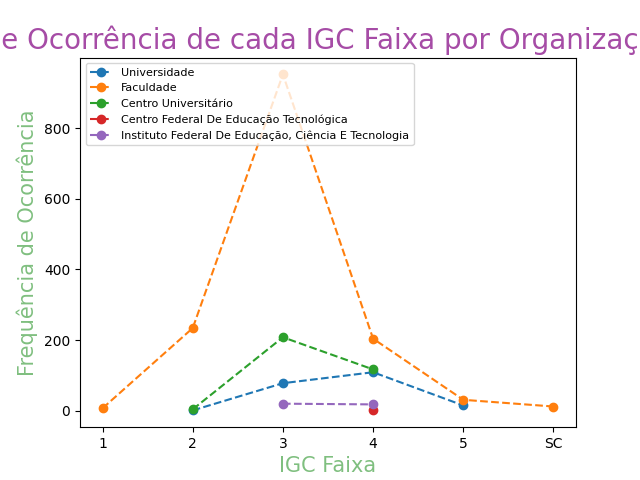
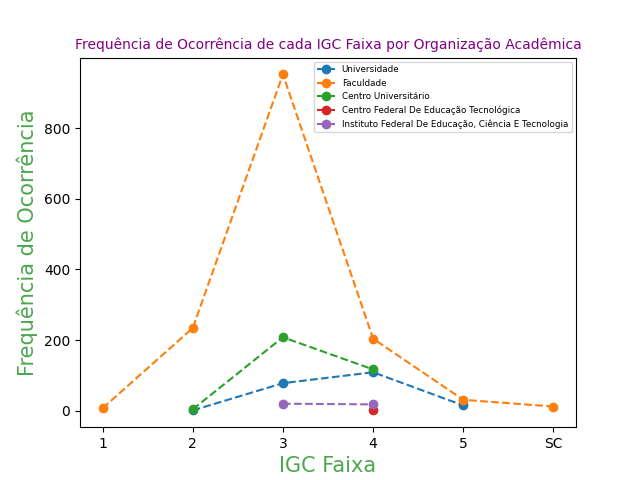
Acrescenta alterações estéticas para os gráficos

Changed region(s): [[0.0, 0.0625, 1.0, 0.3125], [0.0312, 0.2188, 0.0625, 0.7812], [0.4375, 0.9375, 0.5938, 1.0]]

diff --git a/analise_ana.py b/analise_ana.py
@@ -132,9 +132,6 @@ def cria_plot_1_ana(dicionario_contagem):
         # Classifica o DataFrame com base nas colunas (IGC Faixa)
         df = df.sort_index(axis=1)
     
-        # Define o estilo do gráfico
-        # plt.style.use("seaborn-darkgrid")
-    
         # Definindo eixos, tipo do gráfico, entre outras informações base para a construção do gráfico
         for org_acad in df.index:
             igc_faixas = df.columns
@@ -144,10 +141,10 @@ def cria_plot_1_ana(dicionario_contagem):
             # if frequencia_total_org_acad > 0  #DESENVOLER UM TRY EXCEPT AQUI TALVEZ
         
         # Definindo labels, legenda, entre outros dados estéticos do gráfico
-        plt.xlabel("IGC Faixa", size=15, color="green", alpha=0.5)
-        plt.ylabel("Frequência de Ocorrência", size=15, color="green", alpha=0.5)
-        plt.title("Frequência de Ocorrência de cada IGC Faixa por Organização Acadêmica", size=10, color="purple", alpha=0.7)
-        plt.legend(loc="upper left", fontsize = 8)
+        plt.xlabel("IGC Faixa", size=15, color="green", alpha=0.7)
+        plt.ylabel("Frequência de Ocorrência", size=15, color="green", alpha=0.7)
+        plt.title("Frequência de Ocorrência de cada IGC Faixa por Organização Acadêmica", size=10, color="purple", alpha=1.0)
+        plt.legend(loc="upper right", fontsize = 6.3)
         plt.gca().set_facecolor("white")
     
         # Salva e plota o gráfico
@@ -173,38 +170,44 @@ def cria_plot_2_ana(media_arredondada):
     NoneType
         Retorna um gráfico de barras representando a média de IGC faixa por organização acadêmica.
     """
+    try:
+        # Testando se foi passado corretamente um dicionário como parâmetro
+        if not isinstance(dicionario_contagem, dict):
+            raise TypeError("A função só pode receber dicionário!")
+        
+        # Organiza os dados em listas separadas para as organizações acadêmicas e as médias
+        org_acads = list(media_arredondada.keys())
+        medias = list(media_arredondada.values())
+
+        # Cria um eixo e uma figura com 5 de largura e 3 de altura
+        fig, ax = plt.subplots(figsize=(10,5))
+
+        # Define a largura das barras
+        largura_barra = 0.7
     
-    # Organiza os dados em listas separadas para as organizações acadêmicas e as médias
-    org_acads = list(media_arredondada.keys())
-    medias = list(media_arredondada.values())
+        # Cria uma paleta de cores personalizada com base no número de organizações acadêmicas
+        cores = plt.cm.get_cmap("viridis", len(org_acads))
 
-    # Cria um eixo e uma figura com 5 de largura e 3 de altura
-    fig, ax = plt.subplots(figsize=(5,3))
+        # Cria barras atribuindo cores diferentes para cada uma
+        barras = ax.bar(org_acads, medias, largura_barra, color=cores(range(len(org_acads))))
 
-    # Define a largura das barras
-    largura_barra = 0.7
-    
-    # Cria uma paleta de cores personalizada com base no número de organizações acadêmicas
-    cores = plt.cm.get_cmap("viridis", len(org_acads))
+        # Definir rótulos dos eixos e título do gráfico
+        ax.set_xlabel("Organização Acadêmica", size=15, color="green", alpha=0.7)
+        ax.set_ylabel("Média de IGC Faixa", size=15, color="green", alpha=0.7)
+        ax.set_title("Média de IGC Faixa por Organização Acadêmica", size=15, color="purple", alpha=1.0)
 
-    # Cria barras atribuindo cores diferentes para cada uma
-    barras = ax.bar(org_acads, medias, largura_barra, color=cores(range(len(org_acads))))
+        # Rotação dos rótulos do eixo x para evitar sobreposição
+        plt.xticks(rotation=5, ha="right")
 
-    # Definir rótulos dos eixos e título do gráfico
-    ax.set_xlabel("Organização Acadêmica", size=15, color="green", alpha=0.5)
-    ax.set_ylabel("Média de IGC Faixa", size=15, color="green", alpha=0.5)
-    ax.set_title("Média de IGC Faixa por Organização Acadêmica", size=10, color="purple", alpha=0.7)
-
-    # Rotação dos rótulos do eixo x para evitar sobreposição
-    plt.xticks(rotation=25, ha="right")
-
-    # Salva e plota o gráfico de barras
-    plt.savefig("graphic_folder/grafico_02.png")
-    plt.show()
+        # Salva e plota o gráfico de barras
+        plt.savefig("graphic_folder/grafico_02.png")
+        plt.show()
+        
+    except TypeError as e:
+        print(f"Erro: {e}")
+    return None
 
 # if __name__ == "__main__":
-    # doctest.testfile("doctest_folder\doctest-analise_1_ana.txt", verbose=True)
-    # doctest.testfile("doctest_folder\doctest-analise_ana_2.txt", verbose=True)
+    doctest.testfile("doctest_folder\doctest-analise_1_ana.txt", verbose=True)
+    doctest.testfile("doctest_folder\doctest-analise_ana_2.txt", verbose=True)
     # doctest.testfile("doctest_folder\doctest-cria_plot_1_ana.txt", verbose=True)
-
-cria_plot_2_ana(analise_ana_2(analise_1_ana(df)))
